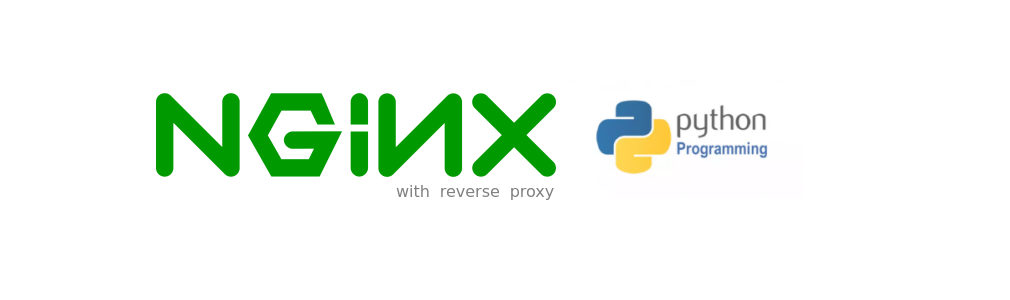
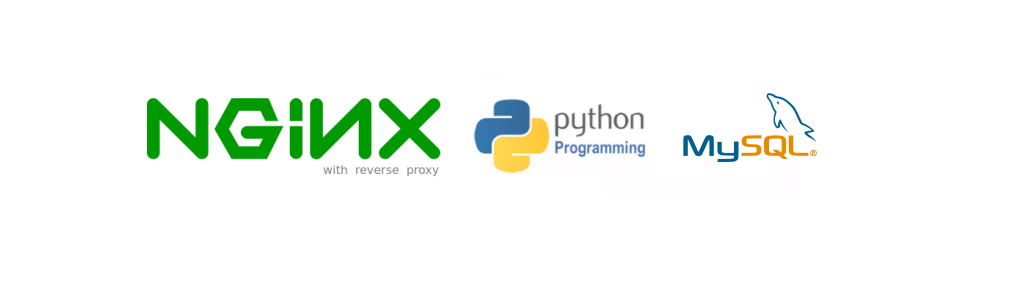
doc: [stabled] [done] README updated

Changed region(s): [[0.1228, 0.3, 0.8287, 0.66], [0.7366, 0.3, 0.7673, 0.33]]

diff --git a/README.md b/README.md
@@ -1,4 +1,4 @@
-# NGINX + REVERSE PROXY + PYTHON (Separated Containers)
+# NGINX + REVERSE PROXY + PYTHON + MYSQL (Separated Containers)
 Dockerized project using Nginx Reverse Proxy and PYTHON
 
 ![banner.png](nginx_reverse_proxy_python_mysql_separated/files/media/banner.png)
@@ -6,14 +6,16 @@ Dockerized project using Nginx Reverse Proxy and PYTHON
 > WARNING: This is a development server. Do not use it in a production deployment. 
 > Use a production UWSGI server instead.
 
+> NOTE: The sample applications just serve to show how to use Mysql connection, it's not a real or serious project
+
 # Requisites
 
 - Nginx
 - Python
-- Mysql 5.7
-- Mysql 8.0
 - Postman
 - Shell Script
+- Mysql 5.7
+- Mysql 8.0
 
 
 # About
@@ -56,12 +58,12 @@ user@host:/home/user/docker-series/nginx_reverse_proxy_python_mysql_separated$ d
 user@host:/home/user/docker-series/nginx_reverse_proxy_python_mysql_separated$ docker-compose ps (check the containers status)
 </pre>
 
-- Run the applications in nginx_uwsgi_python container
+- Run the applications in python3 container
 
 > IMPORTANT NOTE: If the automatically deploy not work in the builder will be necessary run the command below 
 
 <pre>
-user@host:/home/user/docker-series/nginx_reverse_proxy_python_mysql_separated$ docker exec -it nginx_uwsgi_python /bin/bash
+user@host:/home/user/docker-series/nginx_reverse_proxy_python_mysql_separated$ docker exec -it python3 /bin/bash
 root@25f8c997da0a:/home/python/applications# ./applications-deploy.sh
 </pre>
 
@@ -105,11 +107,15 @@ Make sure that the result look like this
 user@host:/home/user/docker-series/nginx_reverse_proxy_python_mysql_separated$ docker-compose ps
  Name                Command               State                                                                       Ports                                                                     
 -------------------------------------------------------------------------------------------------------------------------------------------------------------------------------------------------
+mysql57   docker-entrypoint.sh mysqld      Up                                                                                                                                                    
+mysql80   docker-entrypoint.sh mysqld      Up                                                                                                                                                    
+nginx     /docker-entrypoint.sh ngin ...   Up      80/tcp, 0.0.0.0:38085->85/tcp,:::38085->85/tcp                                                                                                
+python3   bash /home/python3/applica ...   Up      1800/tcp, 0.0.0.0:31800->31800/tcp,:::31800->31800/tcp, 0.0.0.0:35000->5000/tcp,:::35000->5000/tcp, 0.0.0.0:38080->8080/tcp,:::38080->8080/tcp
 </pre>
 
 7- Up the applications
 <pre>
-user@host:/home/user/docker-series/nginx_reverse_proxy_python_mysql_separated$ docker exec -it nginx_uwsgi_python /bin/bash
+user@host:/home/user/docker-series/nginx_reverse_proxy_python_mysql_separated$ docker exec -it python3 /bin/bash
 root@25f8c997da0a:/home/python/applications# ./applications-deploy.sh
 </pre>
 
@@ -156,23 +162,46 @@ root@8c1ede295935:/home/python3/applications#
 </pre>
 
 8- Access and test - APIs
+
+APP1 + MYSQL 5.7
 <pre>
-[GET] http://localhost:38085/app1/
+[GET] http://localhost:38085/app1/welcome
 [RESPONSE]
 {
   "message": "Everything fine !",
   "response": "Welcome to APP1 + MYSQL 5.7",
   "status": 200
 }
+[POST] http://localhost:38085/app1/create-table
 
-[GET] http://localhost:38085/app2/
-[RESPONSE]
+[POST] http://localhost:38085/app1/create-user
 {
-    "message": "Everything fine !",
-    "response": "Welcome to APP2 + MYSQL 8.0",
-    "status": 200
+    "name": "Marcos da Silva",
+    "email": "marcos@email.com"
 }
+
+[GET] http://localhost:38085/app1/read-user/Marcos
 </pre>
 
-> Use the postman file to make a tests above: "PYTHON - NGINX REVERSE PROXY.postman_collection.json"
+APP2 + MYSQL 8.0
+<pre>
+[GET] http://localhost:38085/app2/welcome
+[RESPONSE]
+{
+  "message": "Everything fine !",
+  "response": "Welcome to APP2 + MYSQL 8.0",
+  "status": 200
+}
+[POST] http://localhost:38085/app2/create-table
+
+[POST] http://localhost:38085/app2/create-user
+{
+    "name": "Marcos da Silva",
+    "email": "marcos@email.com"
+}
+
+[GET] http://localhost:38085/app2/read-user/Marcos
+</pre>
+
+> TIP: Use the postman file to make a tests above: "PYTHON - NGINX REVERSE PROXY MYSQL.postman_collection.json"
 
